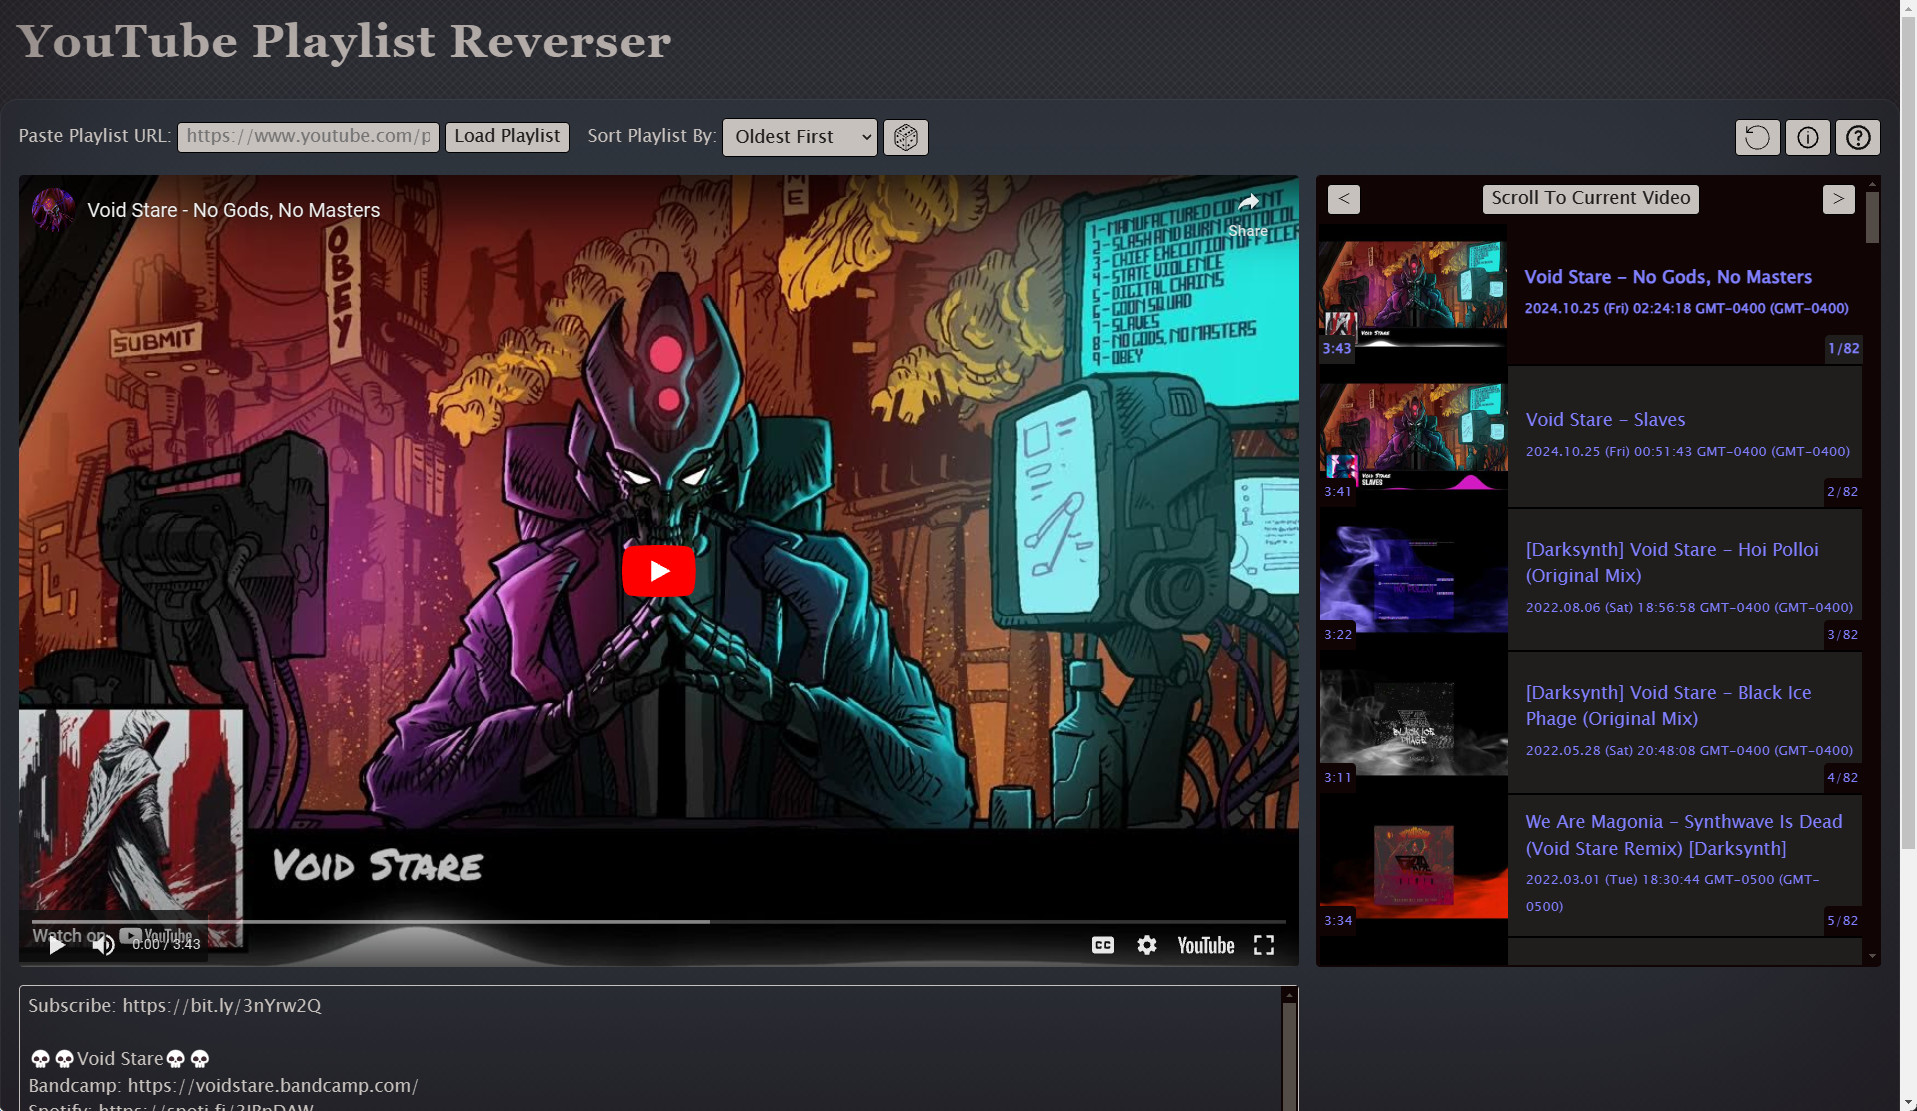
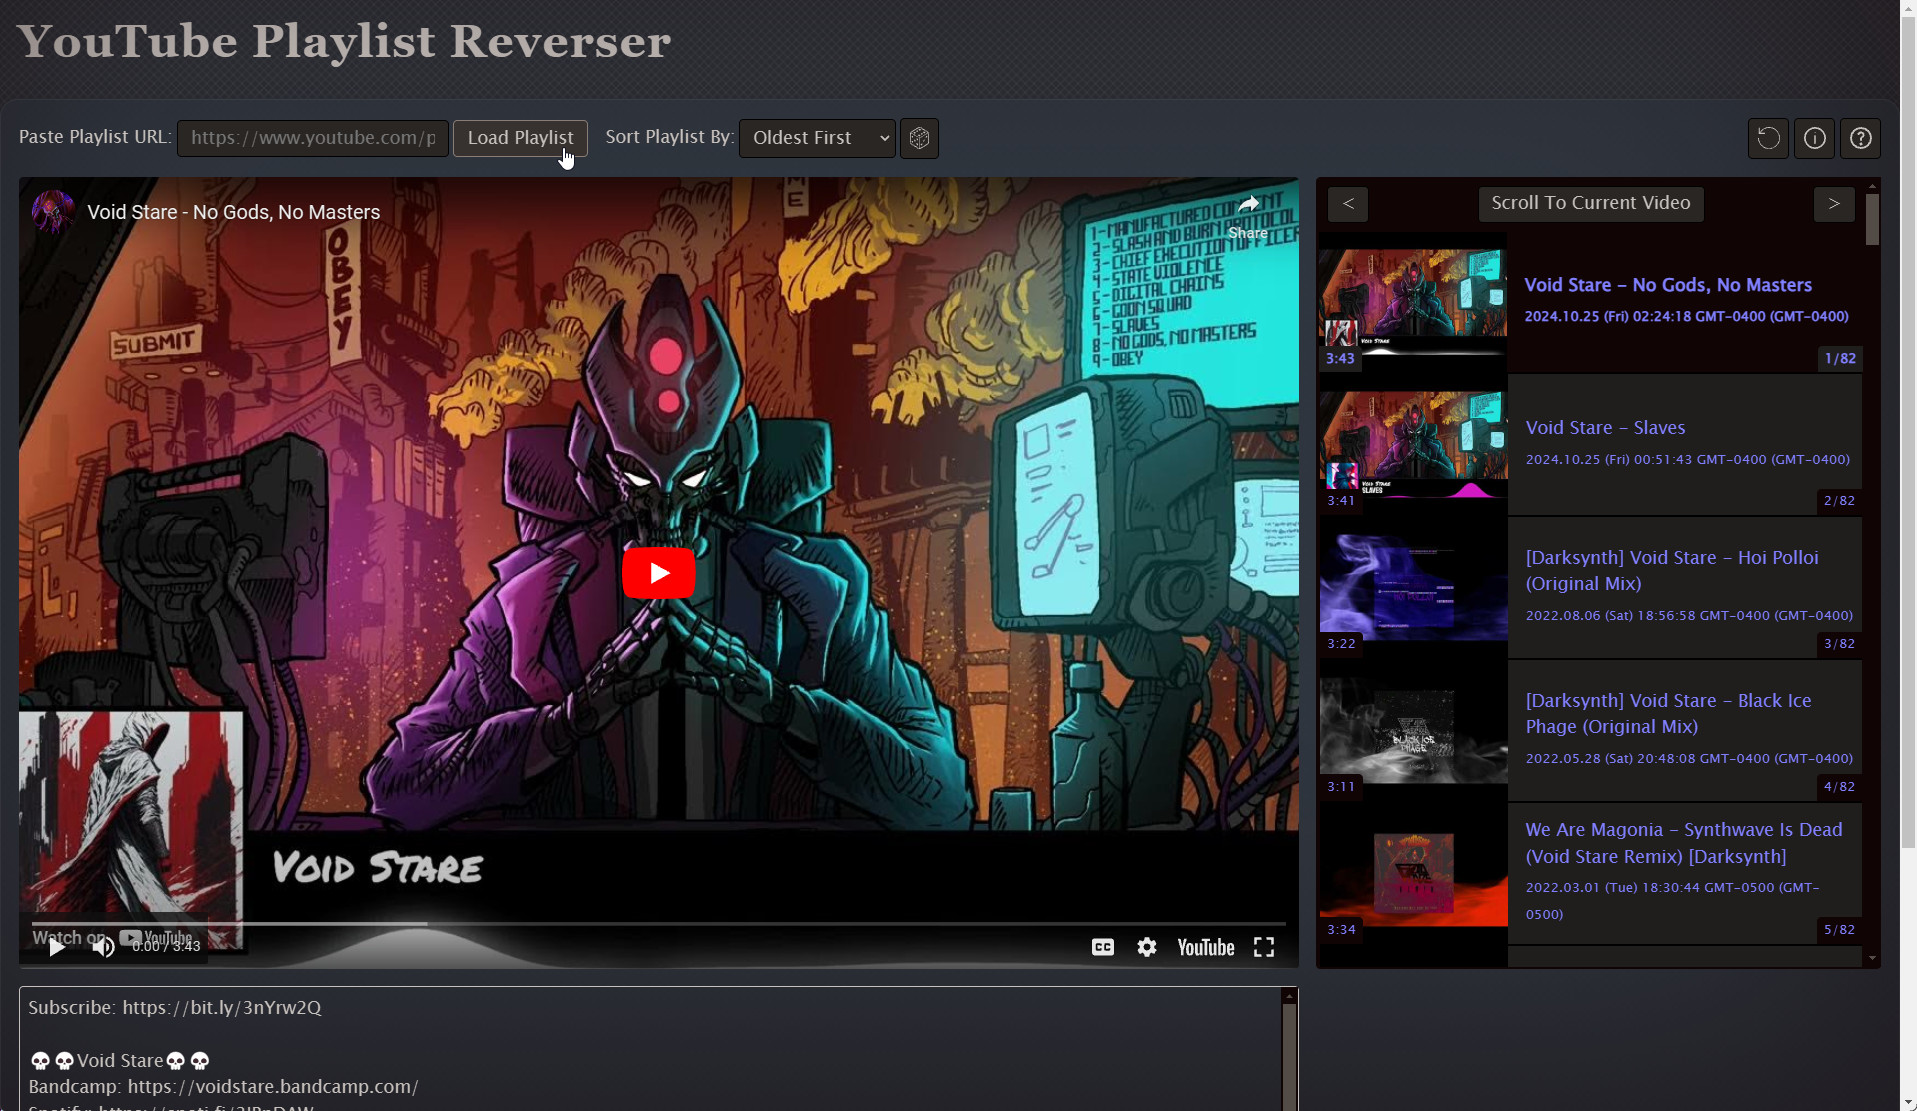
dark buttons & inputs suits this type of thing better than light

diff --git a/ytplr.css b/ytplr.css
@@ -22,16 +22,6 @@ input[type="text" i], option {
     padding-block-start: 0;
     padding-block-end: 0;
 }
-select, input[type="text" i]{
-	padding: .25em .5em;
-}
-input, button, option{
-	padding: .5em .75em;
-}
-input[type="text" i]{
-	padding-left: .75em;
-	padding-right: .75em;
-}
 button,input{overflow:visible}
 button,select{text-transform:none}
 [type=button],[type=reset],[type=submit],button{-webkit-appearance:button}
@@ -181,7 +171,7 @@ INPUT[type="radio"]{margin:0;padding:0;border:0;background-color:transparent;}
 INPUT[type="checkbox"] { vertical-align: bottom; *vertical-align: baseline; }*/
 .ie6 INPUT{ vertical-align: text-bottom; }
 /* hand cursor on clickable input elements */
-label, input[type=button], input[type=submit], button { cursor: pointer;}
+label, input[type=button]:not(:disabled), input[type=submit]:not(:disabled), button:not(:disabled) { cursor: pointer;}
 input[type=button], input[type=submit], button{white-space:nowrap;}/*buttons with multiple lines look dumb and usually wrong*/
 /*** end FORM elements ***/
 /*** start links ***/
@@ -233,6 +223,10 @@ body {
 	--background1:hsl(0,4%,12%);
 	--background2:hsl(0,60%,4%);
 	--scroller:hsl(24,8%,30%);
+	--btnbgA:hsl(24,8%,20%);
+	--btnbg:hsl(24,8%,15%);
+	--btnbd:hsl(24,8%,0%);
+	--btnbdA:hsl(24,8%,50%);
 	--br: .25rem;
 	color: var(--foreground1);
 /*	background: var(--background1);*/
@@ -254,17 +248,28 @@ IFRAME{
 	aspect-ratio: 16 / 10;
 	border-radius: var(--br);
 }
+select, input[type="text" i]{
+	padding: .25em .5em;
+}
+input, button, option{
+	padding: .5em .75em;
+}
+input[type="text" i]{
+	padding-left: .75em;
+	padding-right: .75em;
+}
 input, select, button{
-	border: 1px solid var(--black);
+	border: 1px solid var(--btnbd);
 	border-radius: var(--br);
-	background-color: var(--foreground1);
-	color: var(--background1);
+	background-color: var(--btnbg);
+	color: var(--foreground1);
 }
 button{
 	text-transform: capitalize;
 }
-button:hover, button:focus-visible, input:focus-visible, select:focus-visible{
-	background-color:var(--foreground1l);
+button:not(:disabled):hover, button:focus-visible, input:focus-visible, select:focus-visible{
+	background-color:var(--btnbgA);
+	border-color:var(--btnbdA);
 }
 button img{
 	height: 1.25rem;

diff --git a/README.md b/README.md
@@ -2,7 +2,7 @@
 
 A web-based tool that allows users to load YouTube playlists and change the playback order. This tool sorts the playlist videos by upload date, video title, and duration.
 
-![page screenshot](ytplr-screenshot.jpg)
+![page screenshot ](ytplr-screenshot.jpg)
 
 ## Features
 
